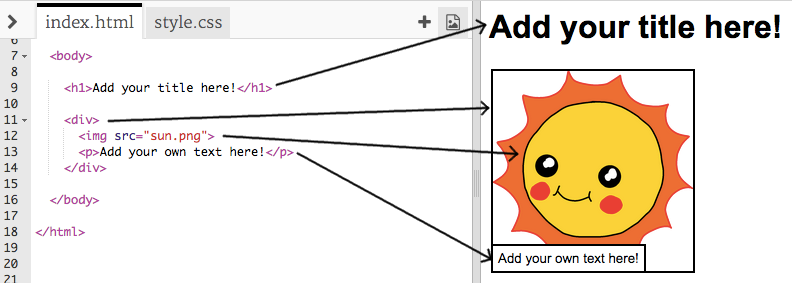
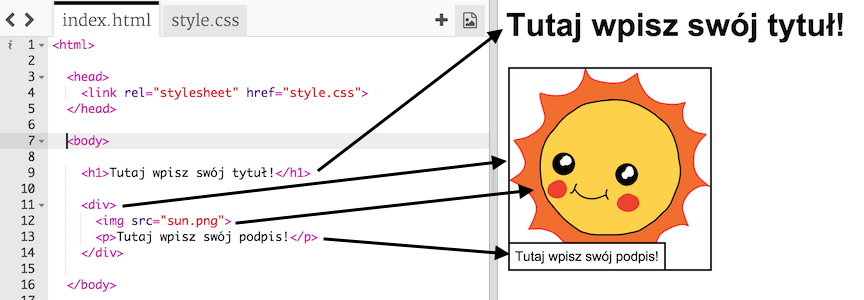
PL - Tell a Story - images and resources translated

Changed region(s): [[0.0, 0.0, 1.0, 1.0], [0.4848, 0.7067, 0.5152, 0.7633], [0.4848, 0.2544, 0.5152, 0.311]]

diff --git a/pl-PL/Tell a Story/Club Leader Resources/StoryFinished.html b/pl-PL/Tell a Story/Club Leader Resources/StoryFinished.html
@@ -6,35 +6,35 @@
 
   <body>
 
-      <h1>A Joke...</h1>
-
-      <div>
-        <img src="boy.png">
-        <p>Knock knock</p>
-      </div>
+      <h1>Dowcip...</h1>
 
       <div>
         <img src="girl.png">
-        <p>Who's there?</p>
+        <p>Puk, puk!</p>
       </div>
 
       <div>
         <img src="boy.png">
-        <p>Hatch</p>
+        <p>Kto tam?</p>
       </div>
 
       <div>
         <img src="girl.png">
-        <p>Hatch who?</p>
+        <p>Mery</p>
       </div>
 
       <div>
         <img src="boy.png">
-        <p>Bless you!</p>
+        <p>Jaka Mery?</p>
       </div>
 
       <div>
         <img src="girl.png">
+        <p>Mery Christmas!</p>
+      </div>
+
+      <div>
+        <img src="boy.png">
         <p>. . .</p>
       </div>
 

diff --git a/pl-PL/Tell a Story/Project Resources/Tell a Story/Story.html b/pl-PL/Tell a Story/Project Resources/Tell a Story/Story.html
@@ -6,11 +6,11 @@
 
   <body>
 
-    <h1>Add your title here!</h1>
+    <h1>Tutaj wpisz swój tytuł!</h1>
 
     <div>
       <img src="sun.png">
-      <p>Add your own text here!</p>
+      <p>Tutaj wpisz swój podpis!</p>
     </div>
 
   </body>
